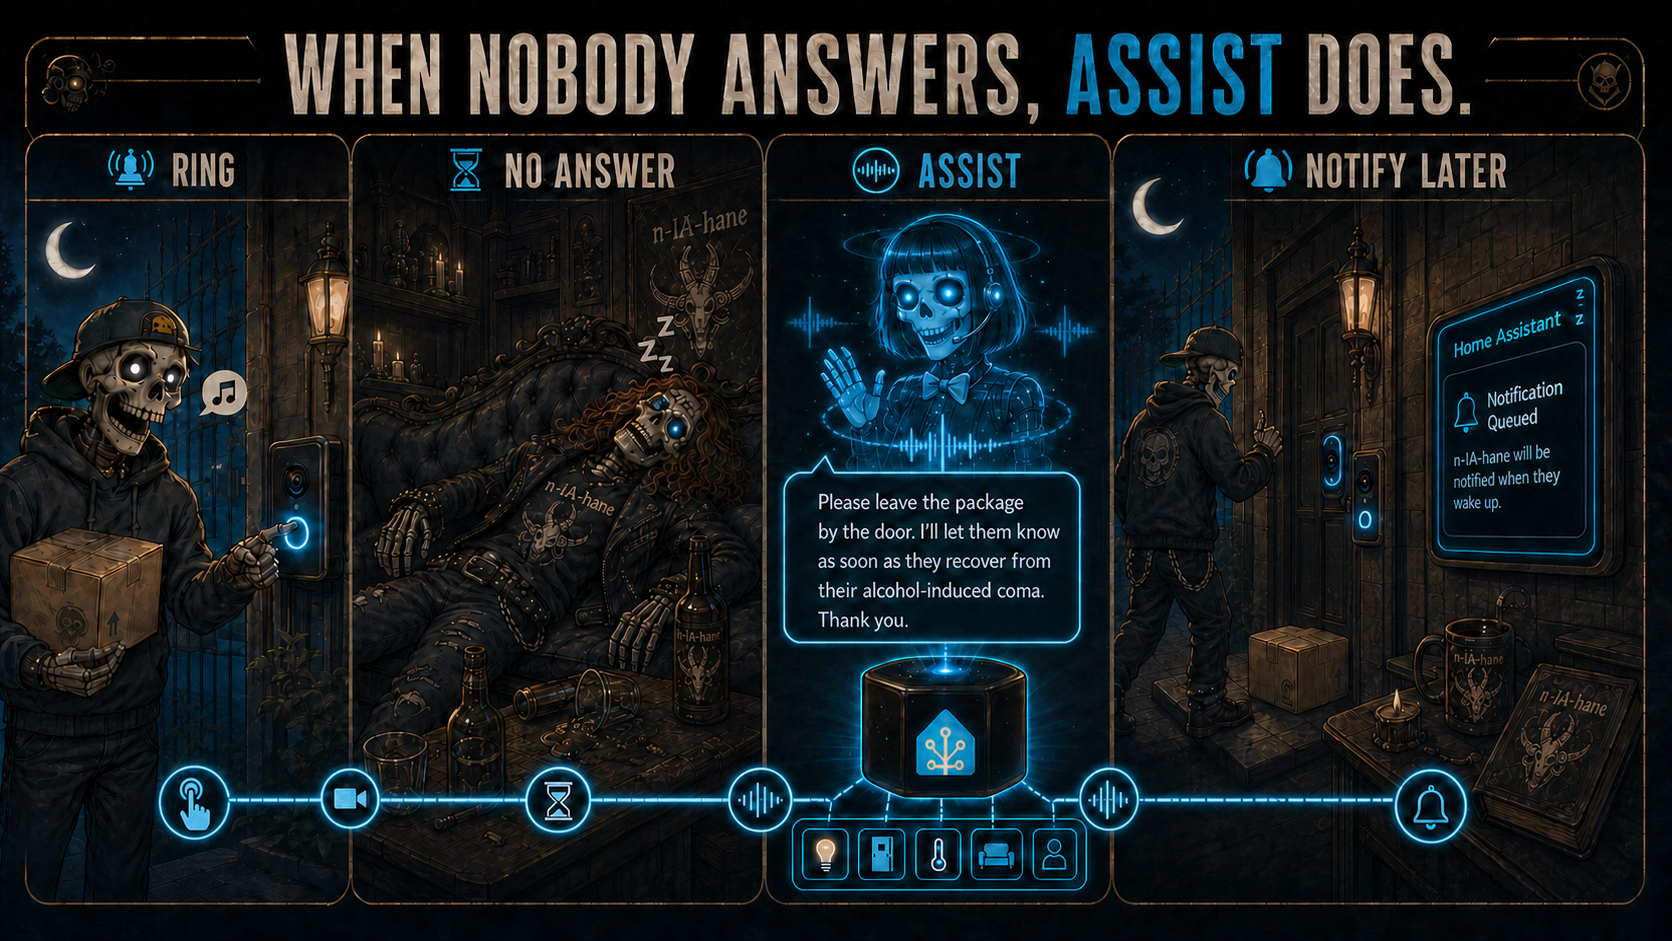
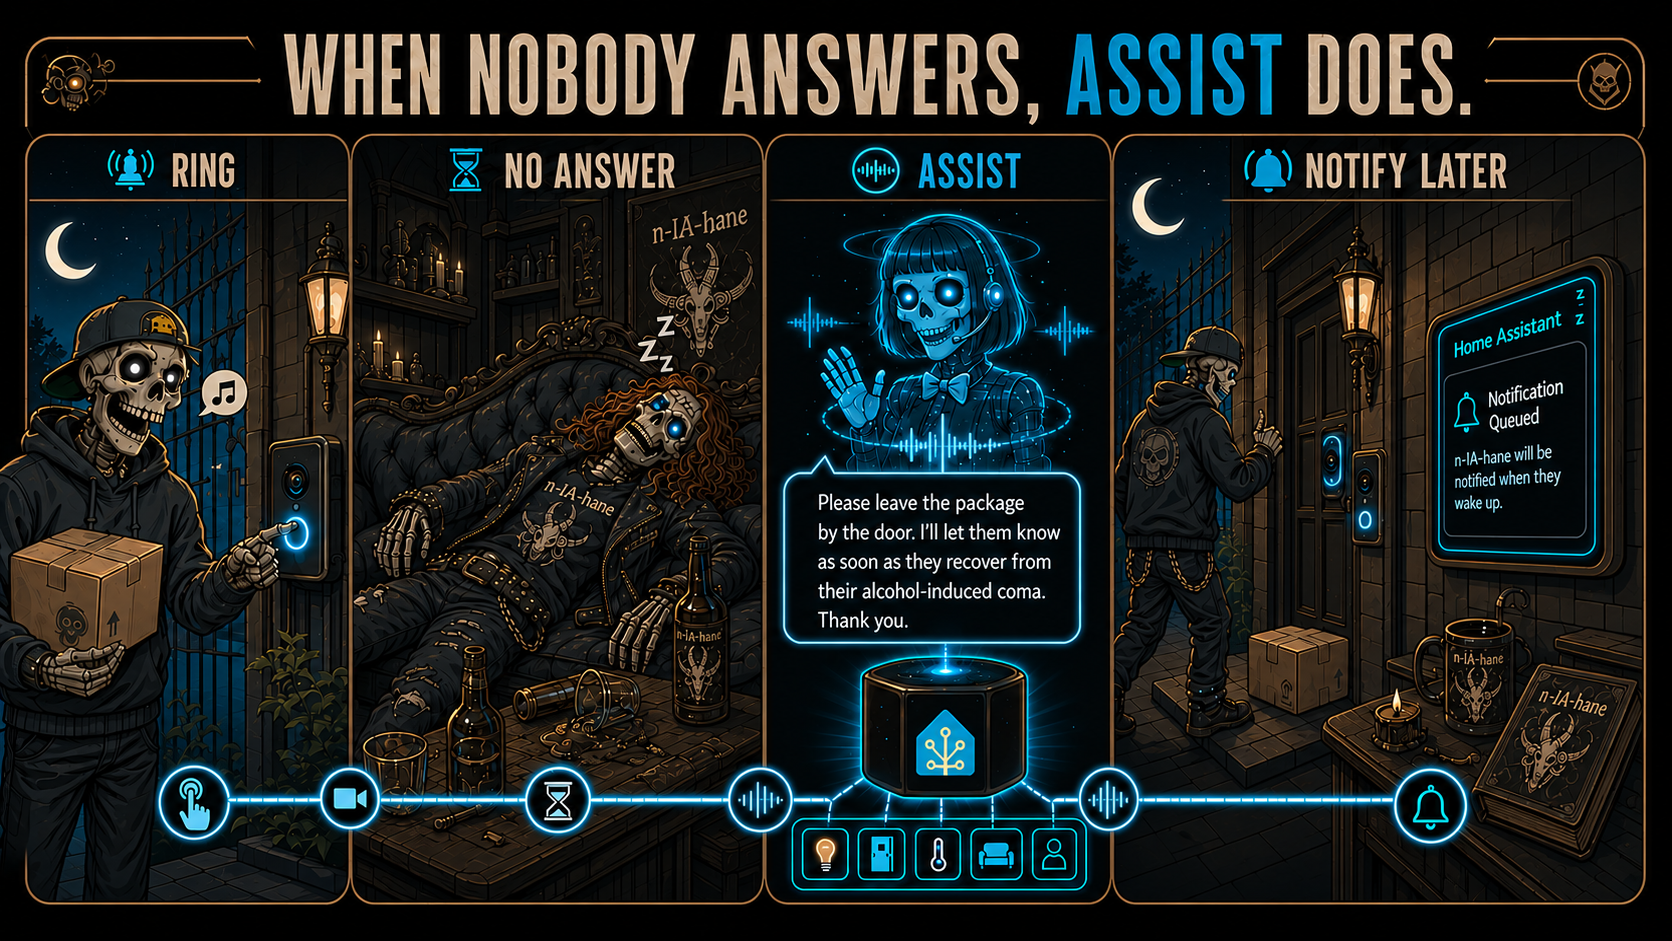
Show the portrait Companion dashboard in Frosted Glass and clarify the doorbell illustration [skip ci]

diff --git a/README.md b/README.md
@@ -192,7 +192,7 @@ another phone or require another microphone.
 
 <img src="docs/images/voip-dashboard-companion-portrait.png" width="360" alt="VoIP Dashboard in the Companion app in portrait, with illustrative incoming, active, held and offline states"/>
 
-_Companion app portrait view with demonstration data and illustrative call states._
+_Companion app in portrait with the Frosted Glass Dark theme. The extensions, call states and contact are illustrative._
 
 The Dashboard brings the calling phone, extension activity and shared contacts
 into one view. See who is ringing, busy, available or offline; inspect calls
@@ -356,7 +356,7 @@ outside that recording scope. See [recording controls](docs/CALL_RECORDING.md).
 
 ## Let Home Assistant handle reception
 
-![Unanswered doorbell, Assist receptionist and notification, in the original dark comic](docs/images/assist-unanswered-doorbell.png)
+![Four-panel comic showing an unanswered doorbell, the Assist receptionist and a queued notification](docs/images/assist-unanswered-doorbell.png)
 
 Route a call by presence, office hours or caller. Play a greeting, ask for a
 keypad choice, ring a group, forward an unanswered call or send it to voicemail.
